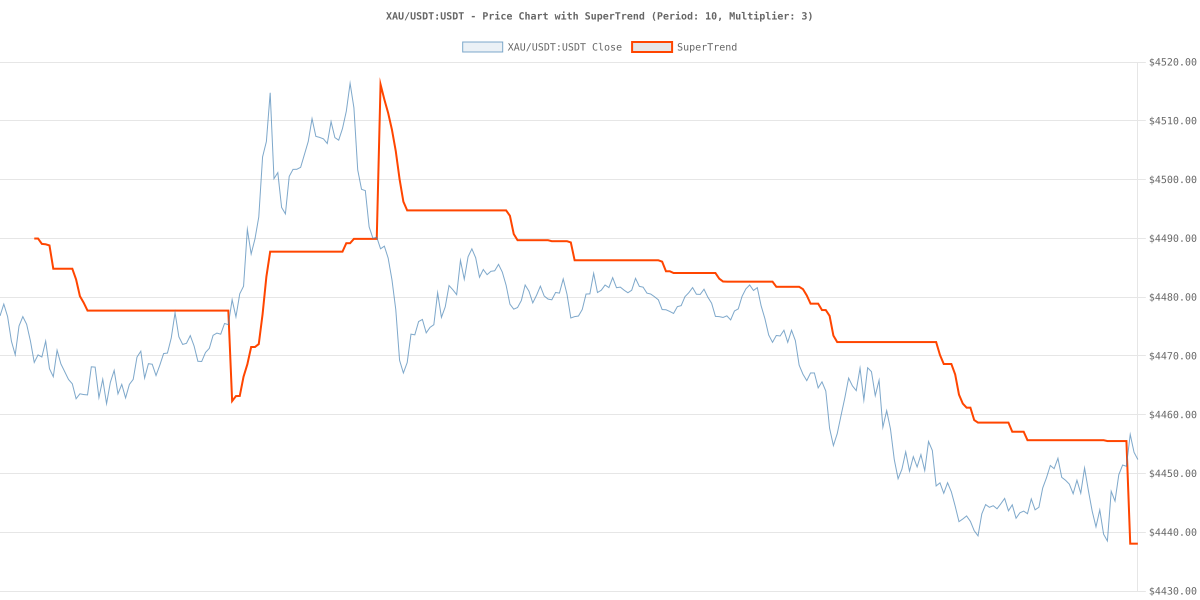
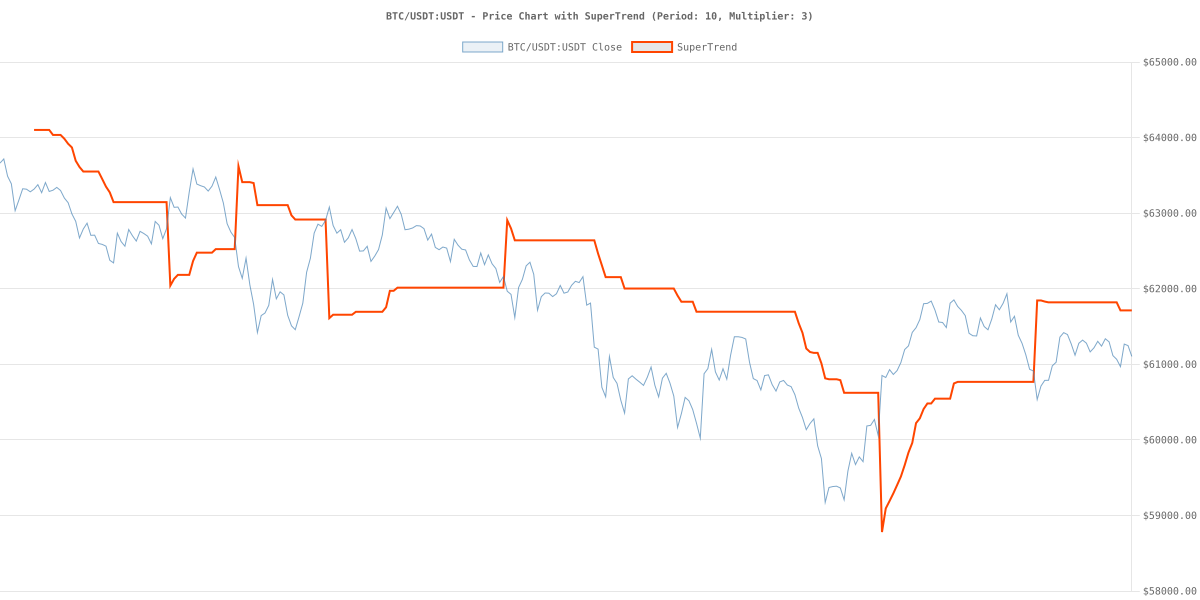
super trend

diff --git a/src/engine/services/indicatorService.js b/src/engine/services/indicatorService.js
@@ -53,9 +53,9 @@ class IndicatorService {
       const lastClose = closes[closes.length - 1];
       logger.debug(`SuperTrend values: last=${lastST}, previous=${prevST}, close=${lastClose}`);
       
-      // Check for trend change
-      const wasBullish = prevST > closes[closes.length - 2];
-      const isBullish = lastST > lastClose;
+// Check for trend change (price > ST = bullish uptrend, price < ST = bearish downtrend)
+       const wasBullish = closes[closes.length - 2] > prevST;
+       const isBullish = lastClose > lastST;
       
       let signal = 'none';
       let met = false;
@@ -69,8 +69,8 @@ class IndicatorService {
         met = true;
         logger.info(`SuperTrend bearish crossover detected at $${lastClose}`);
       }
-      
-      return {
+      logger.info(`SuperTrend check: lastST=${lastST}, lastClose=${lastClose}, wasBullish=${wasBullish}, isBullish=${isBullish}, signal=${signal}`);
+       return {
         met: met,
         signal: signal,
         value: lastST,

diff --git a/src/engine/services/screenerService.js b/src/engine/services/screenerService.js
@@ -33,7 +33,7 @@ class ScreenerService {
       const promises = items.map(async (item) => {
         try {
           if (!TimeUtils.isTriggerTime(item.timeframe)) {
-            logger.debug(`Skipping screener item ${item.id}: not trigger time for ${item.timeframe}`);
+            logger.info(`Skipping screener item ${item.id}: not trigger time for ${item.timeframe}`);
             return;
           }
 
@@ -58,12 +58,11 @@ class ScreenerService {
 
           const candles = await service.getCandles(item.symbol, item.timeframe, 100);
           const parsedCandles = CandleUtils.parseExchangeCandles(candles);
-
           if (parsedCandles.length < 20) {
-            logger.debug(`Insufficient candles for screener item ${item.id}: ${parsedCandles.length}`);
+            logger.info(`Insufficient candles for screener item ${item.id}: ${parsedCandles.length}`);
             return;
           }
-
+          console.log(`Processing screener item ${item.id} for ${item.symbol} (${parsedCandles.length} candles)`);
           const params = item.indicator_params ? JSON.parse(item.indicator_params) : {};
           const result = IndicatorService.checkCondition(item.indicator_type, parsedCandles, params);
 
@@ -96,7 +95,7 @@ class ScreenerService {
             }
           } else {
             await db.updateScreenerItemSignal(item.id, currentSignal || null, now);
-            logger.debug(`Screener item ${item.id}: no reversal (${currentSignal} vs ${item.last_signal})`);
+            logger.info(`Screener item ${item.id}: no reversal (${currentSignal} vs ${item.last_signal})`);
           }
         } catch (error) {
           logger.error(`Error processing screener item ${item.id}:`, error);

diff --git a/cli/test-exchange.js b/cli/test-exchange.js
@@ -101,7 +101,7 @@ async function main() {
   const markets = await exchange.exchange.loadMarkets();
 
   console.log('=== Testing Bybit ExchangeService (livenet) ===\n');
-  const symbol = 'XAU/USDT:USDT';
+  const symbol = 'BTC/USDT:USDT';
 
   const candles = CandleUtils.parseExchangeCandles(await exchange.getCandles(symbol,'m5', 300));
   